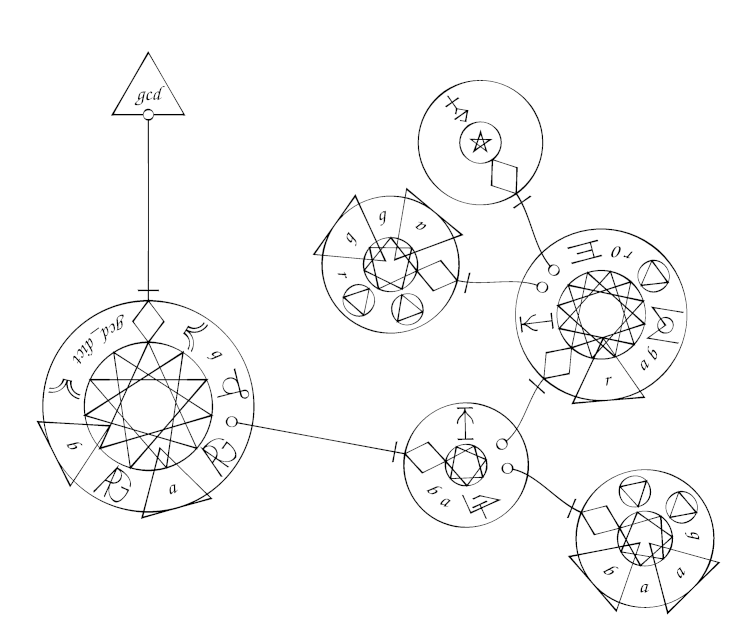
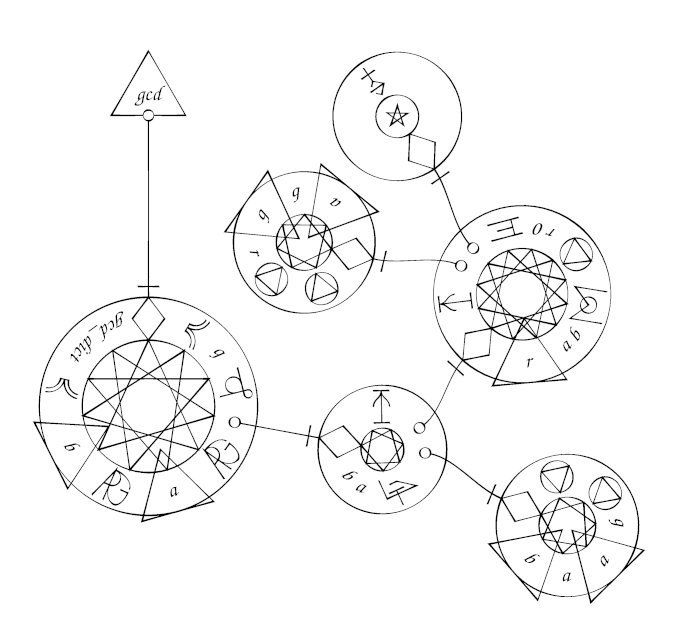
compact_wrapper is default, fix issue with compacting ligature

diff --git a/draw_examples.py b/draw_examples.py
@@ -15,7 +15,7 @@ examples: dict[str, list[int]] = {
     'name_foo': [-1.1, -1.1, 1.1, 1.1],
     'name_foobar': [-1.1, -1.1, 1.1, 1.1],
     'quicksort_example': [-4, -4.5, 4.25, 3.5, 2.5],
-    'gcd_example': [-4, -3, 2, 2, 2.5],
+    'gcd_example': [-4, -3, 1.5, 2, 2.5],
     'smily_example': [-1, -1, 1, 1, 3],
 }
 base_command = "pstopng -0.6 d d d 50 examples.ps -Pimages/".split()
